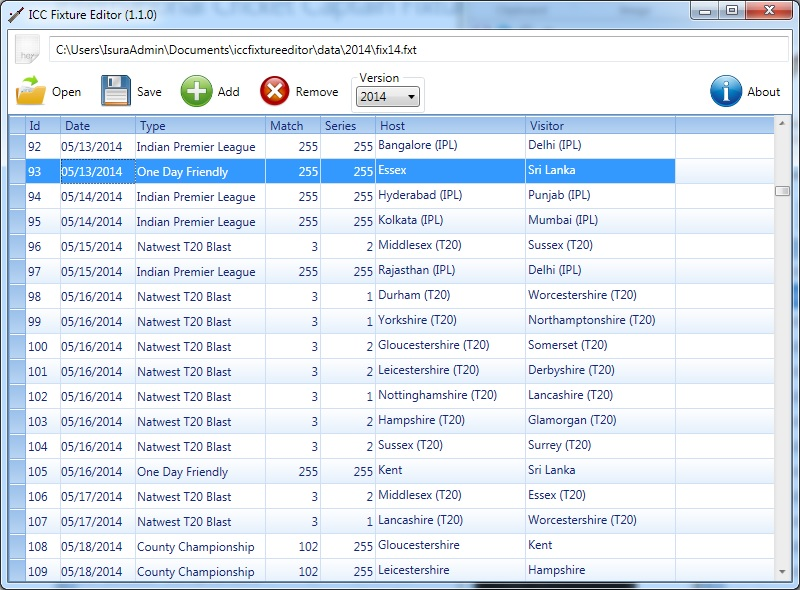
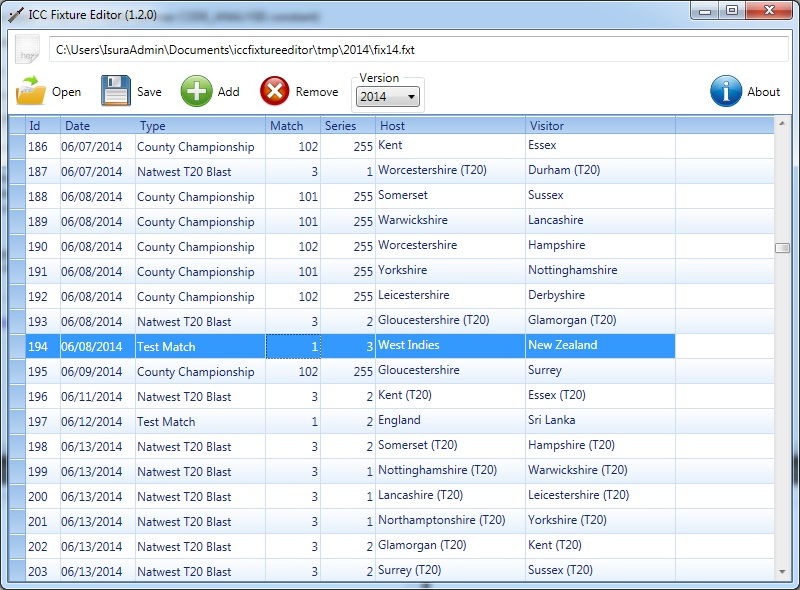
Update assembly verson number

diff --git a/MainWindow.xaml b/MainWindow.xaml
@@ -13,7 +13,7 @@ THE SOFTWARE IS PROVIDED "AS IS", WITHOUT WARRANTY OF ANY KIND, EXPRESS OR IMPLI
         xmlns:Themes="clr-namespace:Microsoft.Windows.Themes;assembly=PresentationFramework.Aero"
         xmlns:local="clr-namespace:Fixtures"
         DataContext="{Binding RelativeSource={RelativeSource Self}}"
-        Title="ICC Fixture Editor (1.1.0)" Height="590" Width="800" MinHeight="525" MinWidth="700"
+        Title="ICC Fixture Editor (1.2.0)" Height="590" Width="800" MinHeight="525" MinWidth="700"
         Icon="resources/Application.png">
 
     <Window.Resources>

diff --git a/Properties/AssemblyInfo.cs b/Properties/AssemblyInfo.cs
@@ -51,5 +51,5 @@ using System.Windows;
 // You can specify all the values or you can default the Build and Revision Numbers 
 // by using the '*' as shown below:
 // [assembly: AssemblyVersion("1.0.*")]
-[assembly: AssemblyVersion("1.1.0.0")]
-[assembly: AssemblyFileVersion("1.1.0.0")]
+[assembly: AssemblyVersion("1.2.0.0")]
+[assembly: AssemblyFileVersion("1.2.0.0")]
